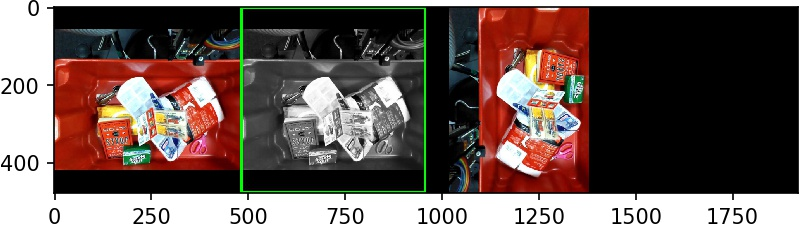
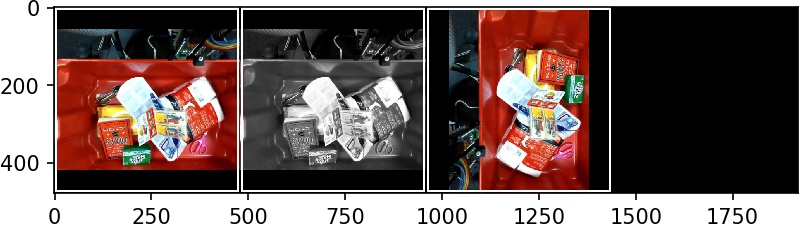
Update examples/tile.py

Changed region(s): [[0.0624, 0.0307, 0.7803, 0.8596], [0.0624, 0.2456, 0.0936, 0.5219], [0.0624, 0.614, 0.0936, 0.7675]]

diff --git a/imgviz/tile.py b/imgviz/tile.py
@@ -55,8 +55,11 @@ def tile(
     if shape is None:
         shape = _get_tile_shape(len(imgs))
 
-    if border and isinstance(border, (list, tuple)):
-        assert len(border) == len(imgs), 'border and imgs must be same size'
+    if border:
+        border = np.asarray(border, dtype=np.uint8)
+        if border.ndim == 1:
+            border = border[None].repeat(len(imgs), axis=0)
+        assert border.ndim == 2
     else:
         border = (border,) * len(imgs)
 
@@ -80,11 +83,11 @@ def tile(
             img = rgb2rgba(img)
 
         img = centerize(src=img, shape=(max_h, max_w, channel), cval=cval)
-        if border[i]:
+        if border[i] is not None:
             img = rectangle(
                 src=img,
-                aabb1=(2, 1),
-                aabb2=(img.shape[0] - 1, img.shape[1] - 1),
+                aabb1=(3, 3),
+                aabb2=(img.shape[0] - 3, img.shape[1] - 3),
                 color=border[i],
                 width=6,
             )

diff --git a/examples/tile.py b/examples/tile.py
@@ -20,7 +20,7 @@ if __name__ == '__main__':
     tiled = imgviz.tile(
         imgs=[rgb, gray, rgbT],
         shape=(1, 4),
-        border=[None, (0, 255, 0), None],
+        border=(255, 255, 255),
     )
 
     plt.figure(dpi=150)
